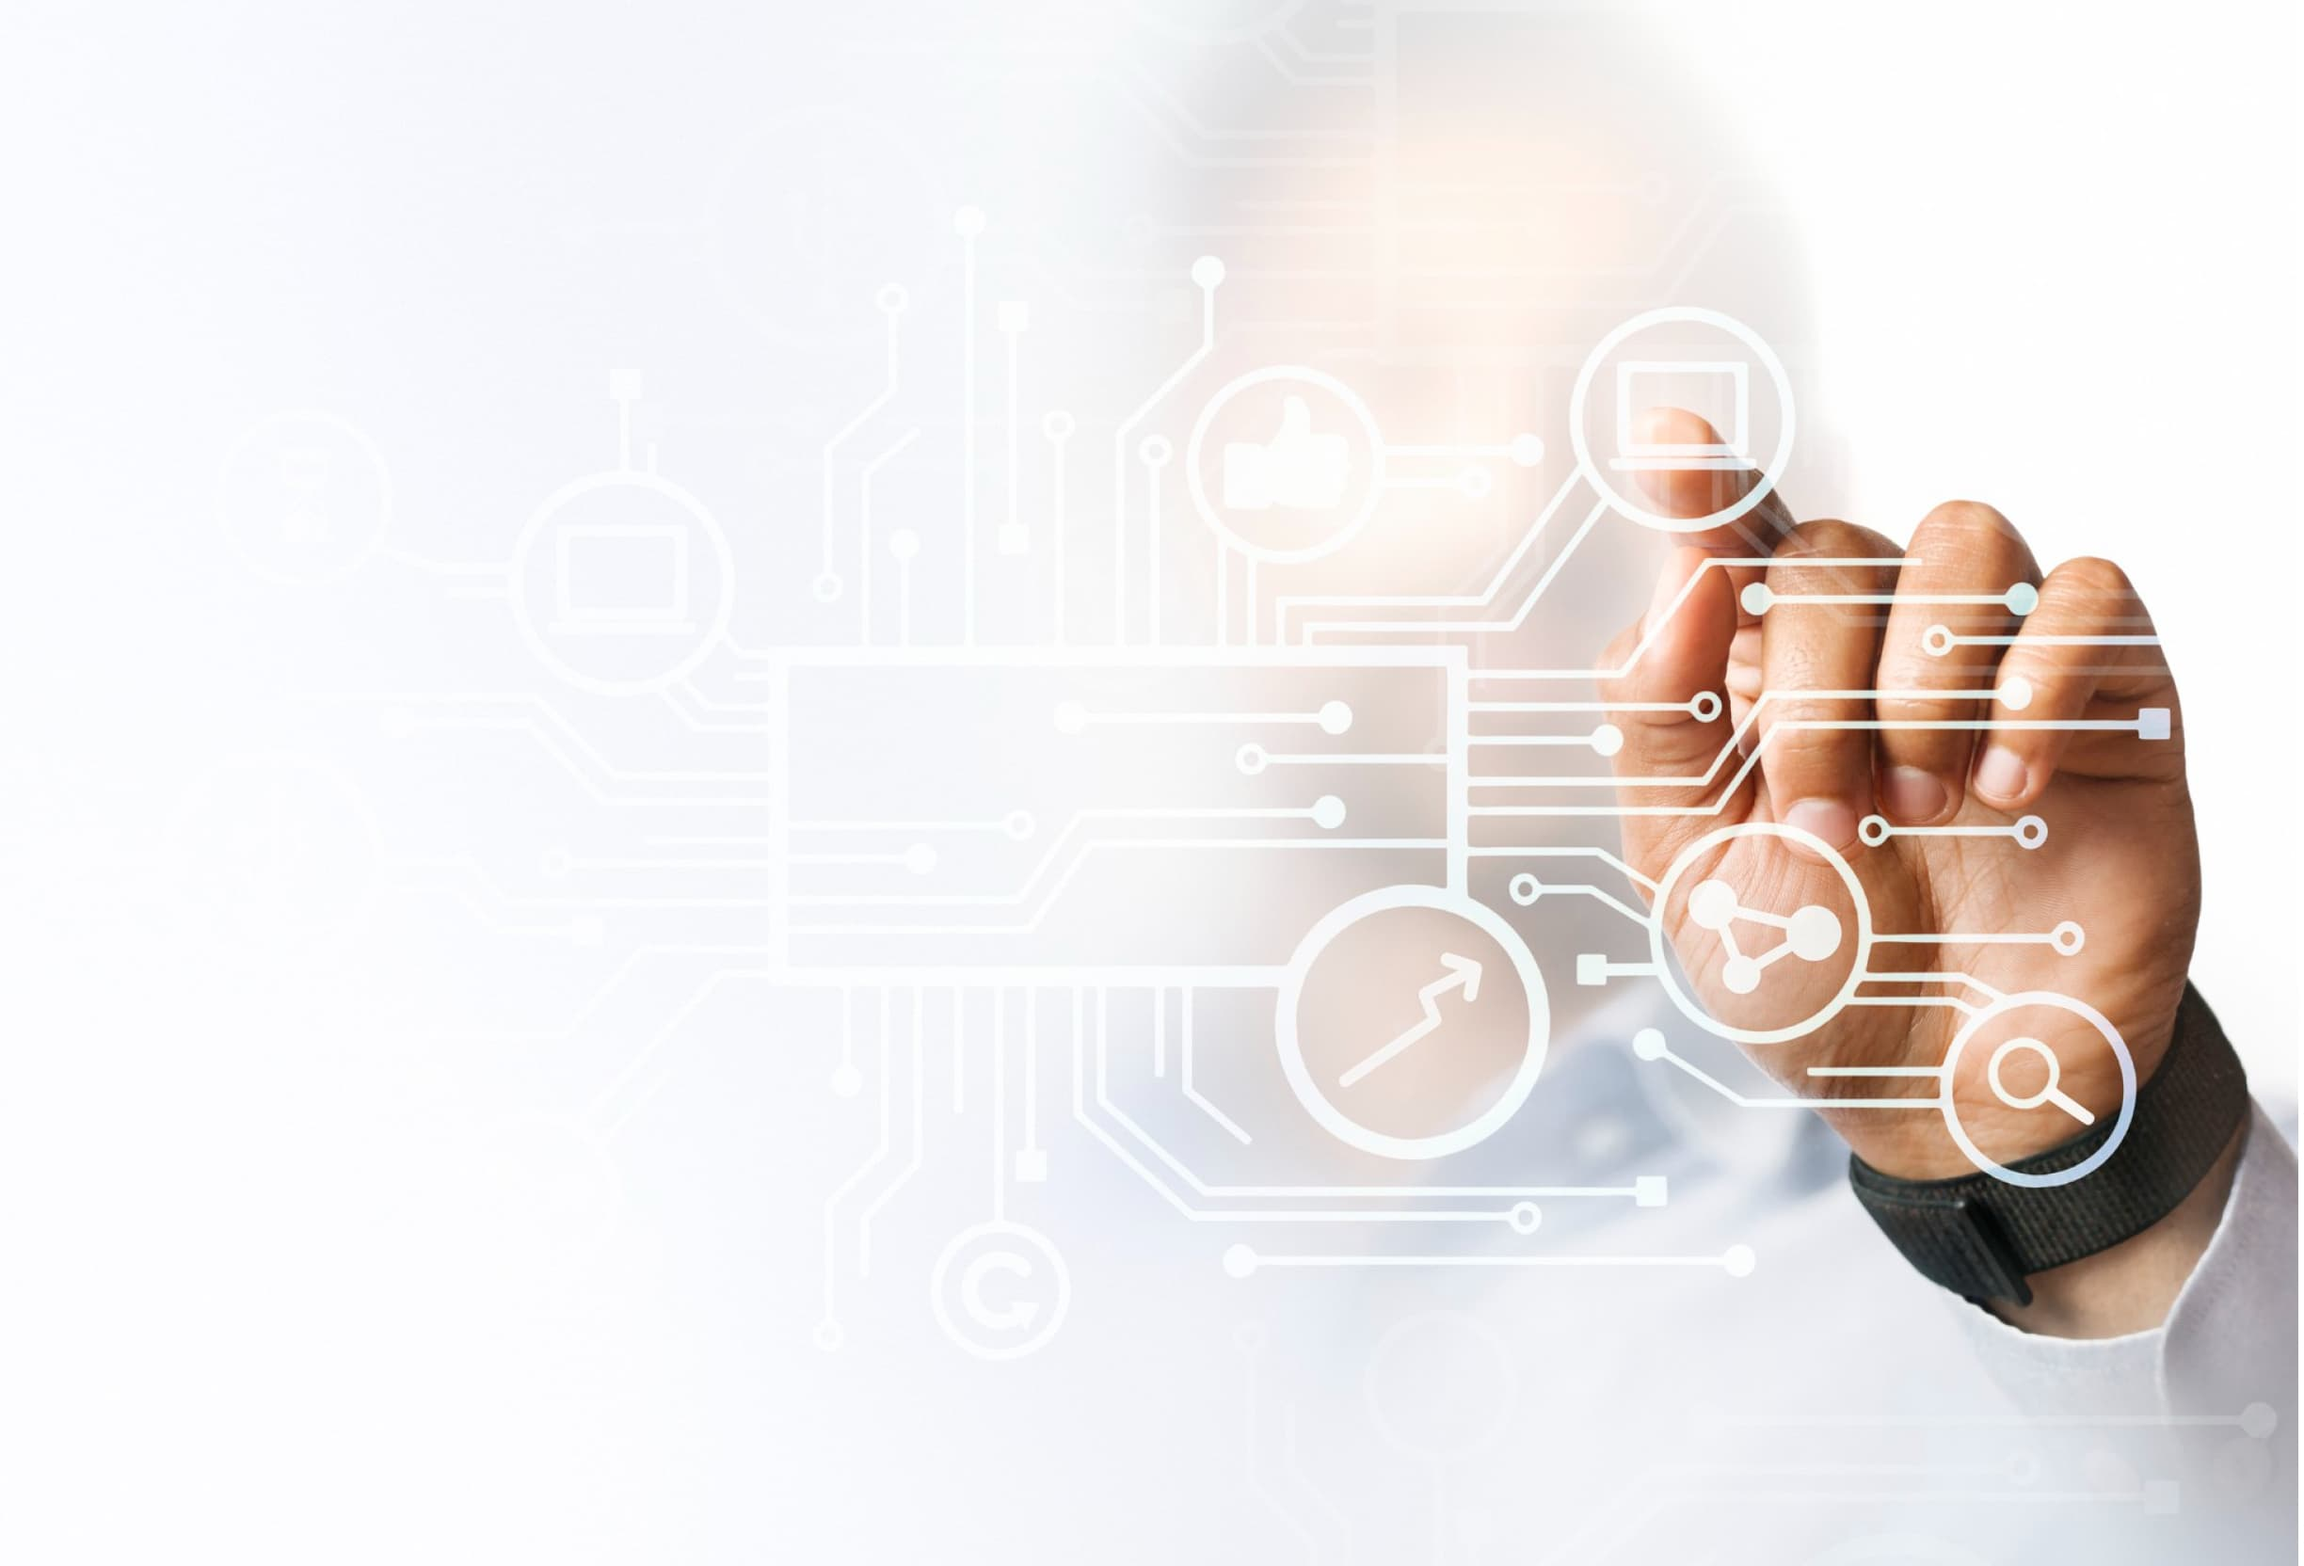
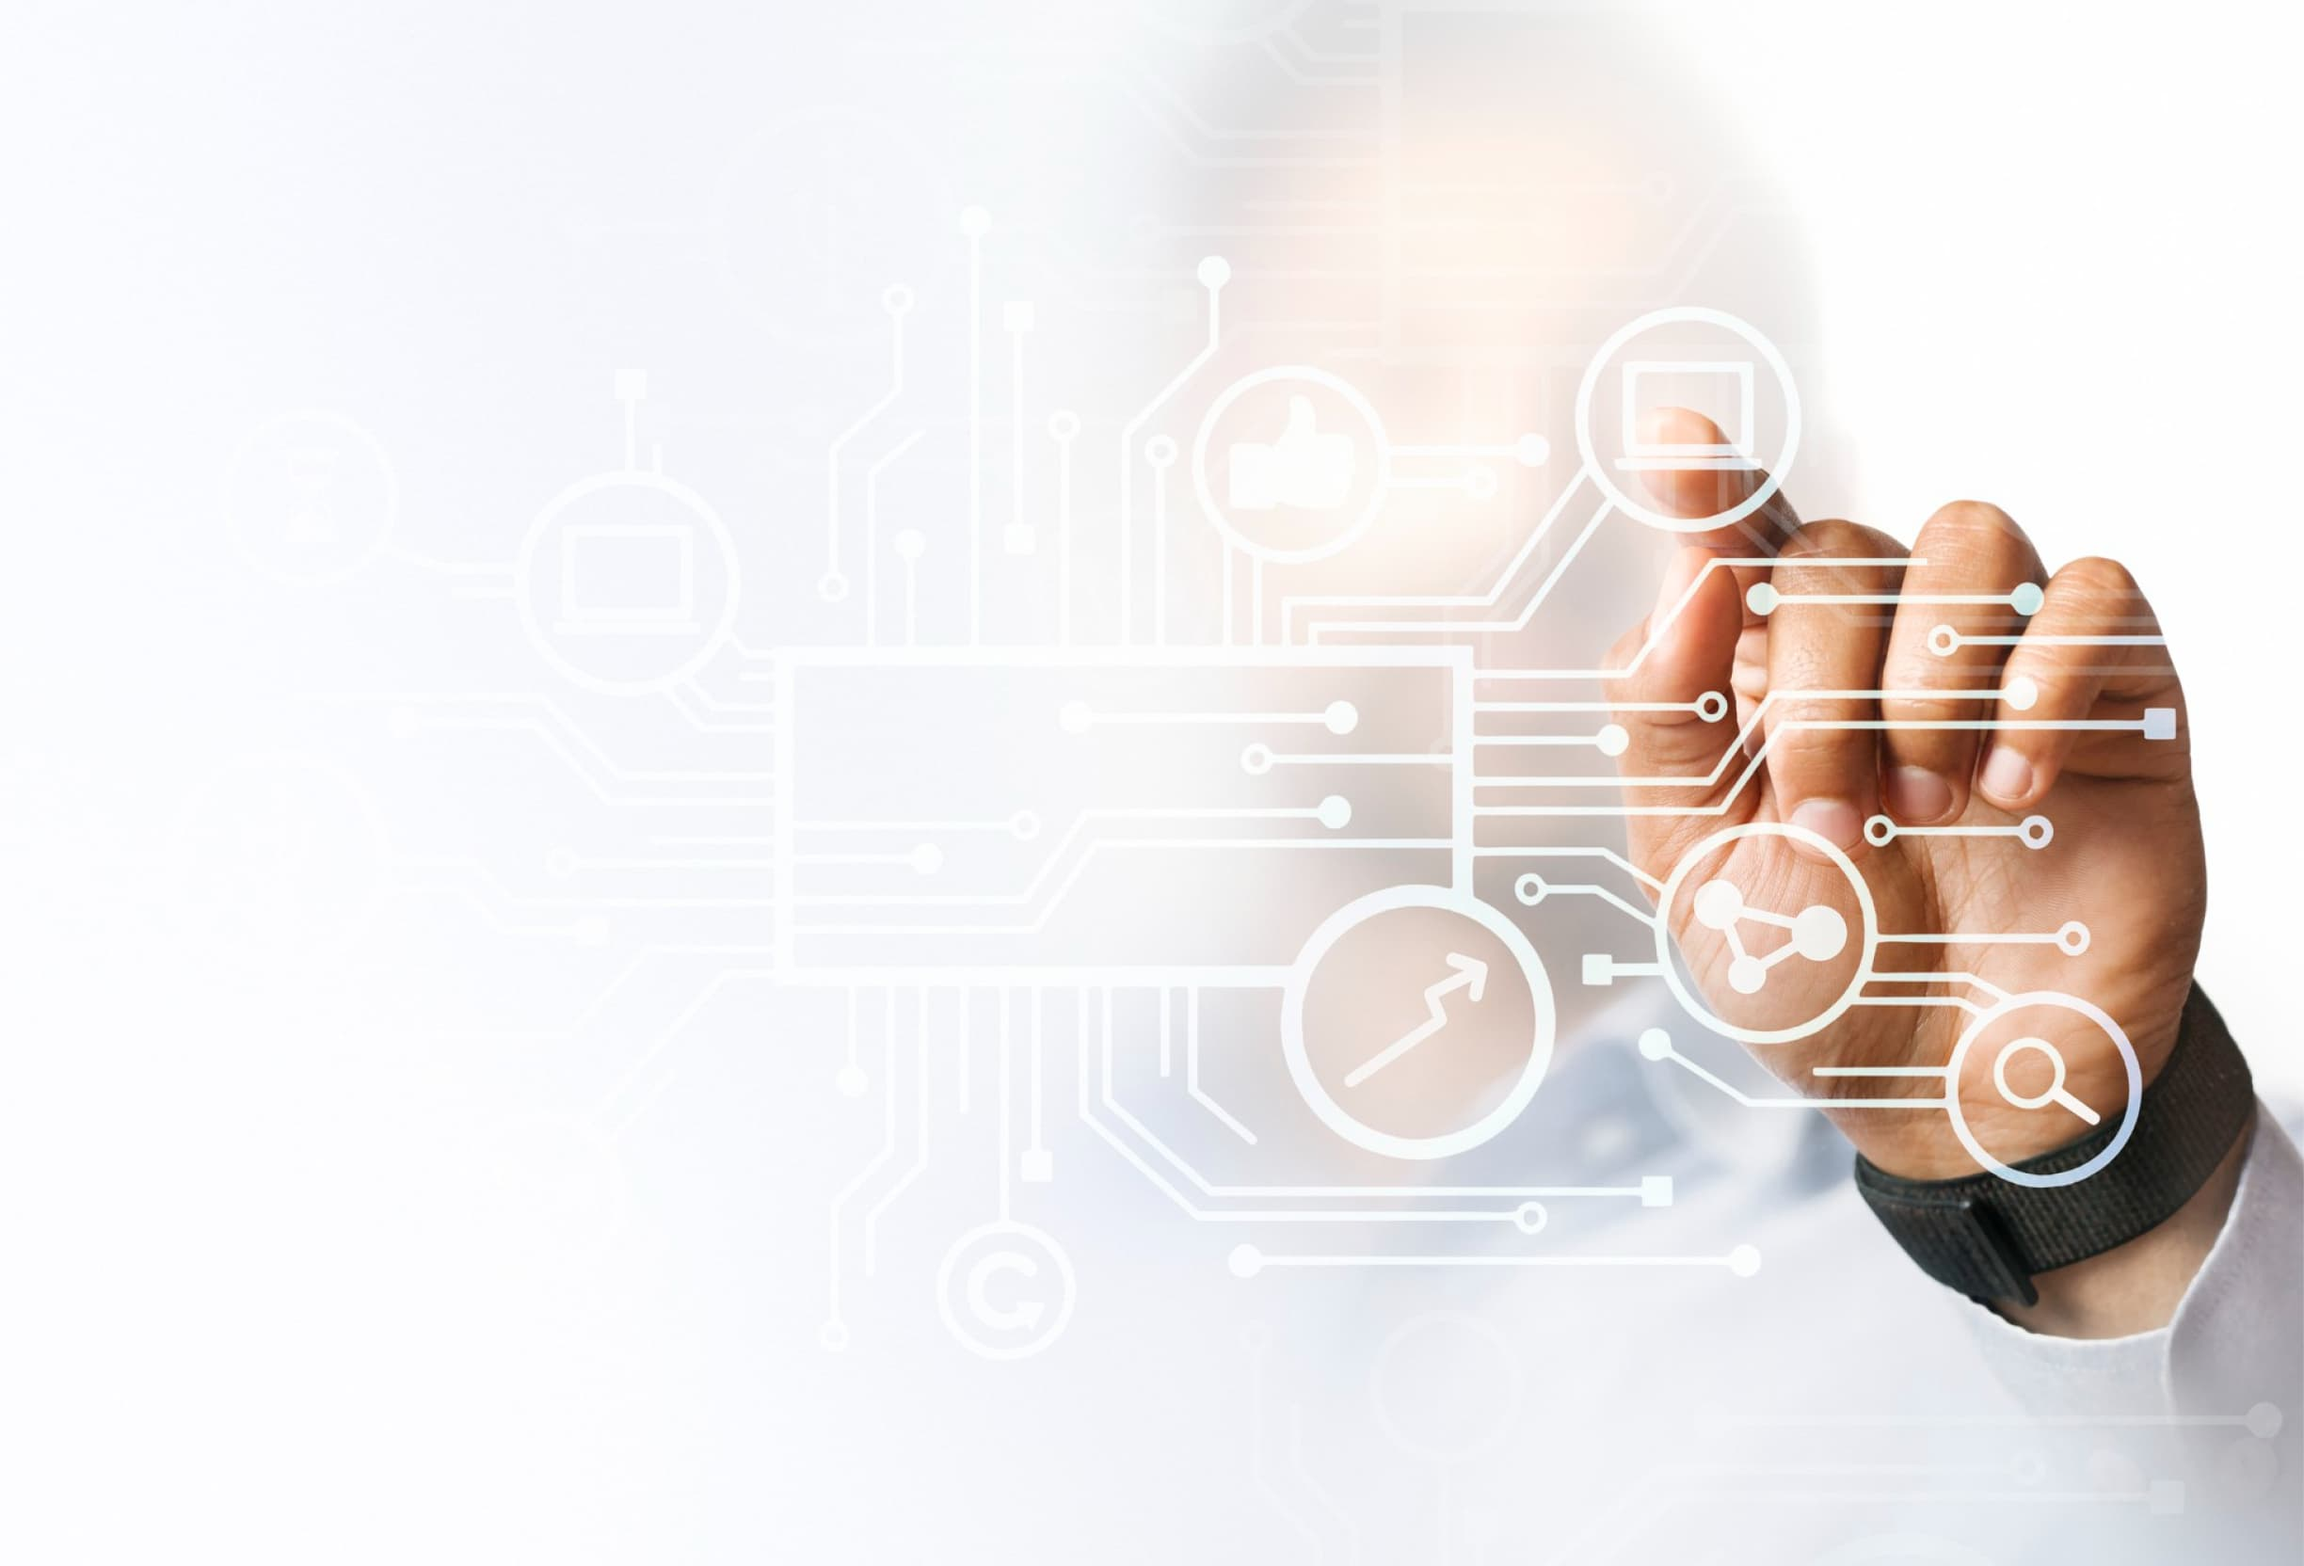
fix-body-styles

diff --git a/src/styles/page.module.css b/src/styles/page.module.css
@@ -74,27 +74,27 @@
     }
 }
 :global(.dark) .sectionComponents {
-    background: url("../images/layout-dark-1x.jpg") no-repeat center/cover;
+    background: linear-gradient(180deg, rgba(144, 222, 254, 0.15) 0%, rgba(120, 245, 250, 0.15) 59.37%, rgba(120, 245, 250, 0.0405) 95.83%), url("../images/layout-dark-1x.jpg") no-repeat center/cover;
     
-        @supports (background: url("../images/layout-dark-1x.webp")) {
-            background: url("../images/layout-dark-1x.webp") no-repeat center/cover;
+        @supports (background: linear-gradient(180deg, rgba(144, 222, 254, 0.15) 0%, rgba(120, 245, 250, 0.15) 59.37%, rgba(120, 245, 250, 0.0405) 95.83%), url("../images/layout-dark-1x.webp")) {
+            background: linear-gradient(180deg, rgba(144, 222, 254, 0.15) 0%, rgba(120, 245, 250, 0.15) 59.37%, rgba(120, 245, 250, 0.0405) 95.83%), url("../images/layout-dark-1x.webp") no-repeat center/cover;
         }
     
         @media (min-device-pixel-ratio: 2),
         (min-resolution: 192dpi),
         (min-resolution: 2dppx) {
-            background: url("../images/layout-dark-2x.jpg") no-repeat center/cover;
+            background: linear-gradient(180deg, rgba(144, 222, 254, 0.15) 0%, rgba(120, 245, 250, 0.15) 59.37%, rgba(120, 245, 250, 0.0405) 95.83%), url("../images/layout-dark-2x.jpg") no-repeat center/cover;
     
-            @supports (background: url("../images/layout-dark-2x.webp")) {
-                background: url("../images/layout-dark-2x.webp") no-repeat center/cover;
+            @supports (background: linear-gradient(180deg, rgba(144, 222, 254, 0.15) 0%, rgba(120, 245, 250, 0.15) 59.37%, rgba(120, 245, 250, 0.0405) 95.83%), url("../images/layout-dark-2x.webp")) {
+                background: linear-gradient(180deg, rgba(144, 222, 254, 0.15) 0%, rgba(120, 245, 250, 0.15) 59.37%, rgba(120, 245, 250, 0.0405) 95.83%), url("../images/layout-dark-2x.webp") no-repeat center/cover;
             }
         }
     
         @media (min-width: 768px) {
-            background: url("../images/layout-dark-2x.jpg") no-repeat center/cover;
+            background: linear-gradient(180deg, rgba(144, 222, 254, 0.15) 0%, rgba(120, 245, 250, 0.15) 59.37%, rgba(120, 245, 250, 0.0405) 95.83%), url("../images/layout-dark-2x.jpg") no-repeat center/cover;
     
-            @supports (background: url("../images/layout-dark-2x.webp")) {
-                background: url("../images/layout-dark-2x.webp") no-repeat center/cover;
+            @supports (background: linear-gradient(180deg, rgba(144, 222, 254, 0.15) 0%, rgba(120, 245, 250, 0.15) 59.37%, rgba(120, 245, 250, 0.0405) 95.83%), url("../images/layout-dark-2x.webp")) {
+                background: linear-gradient(180deg, rgba(144, 222, 254, 0.15) 0%, rgba(120, 245, 250, 0.15) 59.37%, rgba(120, 245, 250, 0.0405) 95.83%), url("../images/layout-dark-2x.webp") no-repeat center/cover;
             }
         }
 }
